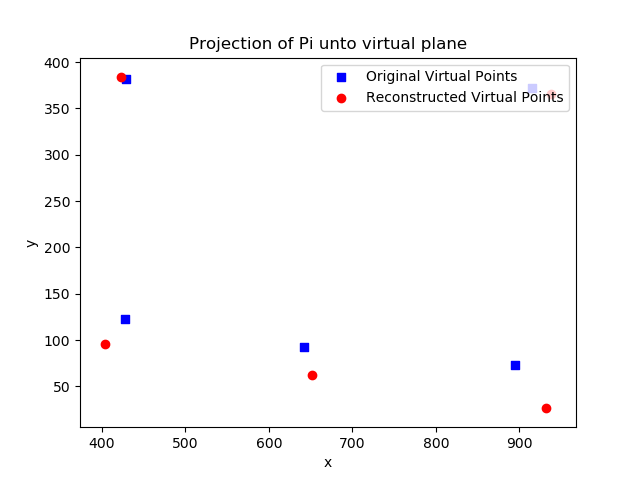
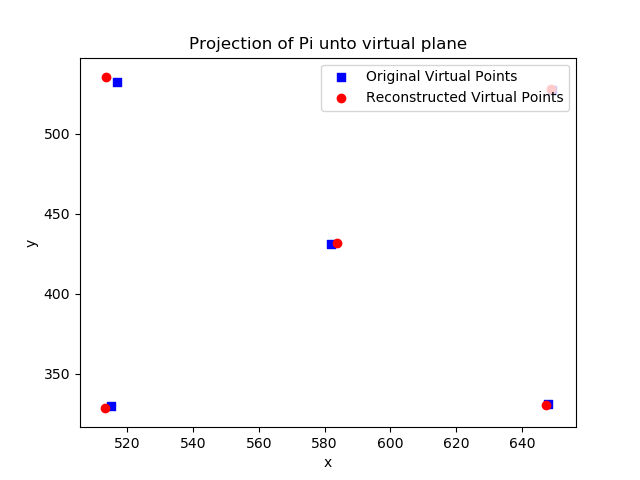
April 22, 2021 - Commit before fuseing code with Mask-Grasp R-CNN code

diff --git a/pupil_to_realsense_mapper.py b/pupil_to_realsense_mapper.py
@@ -71,9 +71,9 @@ for i in list(range(20)):
     frames = pipeline.wait_for_frames()
 # cv2.namedWindow('Eye Tracker Calibration', cv2.WINDOW_AUTOSIZE)
 
-M_t = np.array([[  0.99866882,  0.01168762,  0.05023925, -0.13939386],
- [-0.01221465,  0.99987341,  0.01019624, -0.00047303],
- [-0.05011372, -0.01079632,  0.99868516, -0.0069492]])
+M_t = np.array([[0.98323309, -0.03063463,  0.17976155, -0.05710686],
+ [ 0.03361795,  0.9993426,  -0.01357236, -0.02003963],
+ [-0.17922759,  0.01938801,  0.98361658,  0.01666406]])
 
 invertible_M_t = np.concatenate([M_t, np.array([0,0,0,1]).reshape(1,4)], axis=0)
 M_t_inverse = np.linalg.inv(invertible_M_t)

diff --git a/calibrating_realsense_pupil.py b/calibrating_realsense_pupil.py
@@ -175,8 +175,8 @@ for i, image in enumerate(images_to_annotate):
 pupil_image_size = [720, 1280] #[height, width]
 realsense_image_size = [480, 640] #[height, width]
 
-points[0][:, 1] = pupil_image_size[0] - points[0][:, 1]
-points[1][:, 1] = realsense_image_size[0] - points[1][:, 1]
+# points[0][:, 1] = pupil_image_size[0] - points[0][:, 1]
+# points[1][:, 1] = realsense_image_size[0] - points[1][:, 1]
 
 pupil_points = points[0]
 realsense_image_points = points[1]
